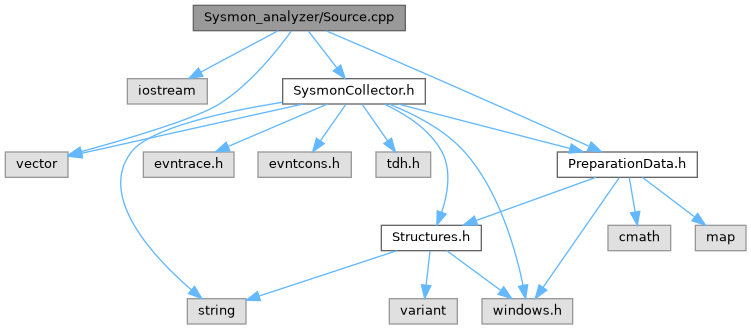
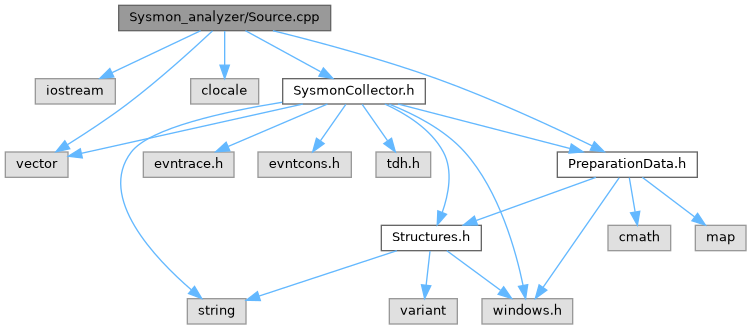
Deploying to gh-pages from @ banp2892/Sysmon_analyzer@a7da2aaada35fd8413b38a43fda87d517f96c042 🚀

diff --git a/SysmonCollector_8h_source.html b/SysmonCollector_8h_source.html
@@ -145,21 +145,21 @@ $(document).ready(function(){initNavTree('SysmonCollector_8h_source.html',''); i
 <div class="ttc" id="aStructures_8h_html"><div class="ttname"><a href="Structures_8h.html">Structures.h</a></div></div>
 <div class="ttc" id="aclassPreparationData_html"><div class="ttname"><a href="classPreparationData.html">PreparationData</a></div><div class="ttdoc">Класс для обработки сырых данных Sysmon и вычисления дополнительных признаков.</div><div class="ttdef"><b>Definition</b> PreparationData.h:14</div></div>
 <div class="ttc" id="aclassSysmonCollector_html"><div class="ttname"><a href="classSysmonCollector.html">SysmonCollector</a></div><div class="ttdoc">Класс для управления сессией трассировки событий Windows (ETW) и сбора данных из Sysmon.</div><div class="ttdef"><b>Definition</b> SysmonCollector.h:17</div></div>
-<div class="ttc" id="aclassSysmonCollector_html_a05258cb410dd1d15eb00927ac206d279"><div class="ttname"><a href="classSysmonCollector.html#a05258cb410dd1d15eb00927ac206d279">SysmonCollector::~SysmonCollector</a></div><div class="ttdeci">~SysmonCollector()</div><div class="ttdoc">Деструктор: останавливает сессию трассировки и освобождает ресурсы.</div><div class="ttdef"><b>Definition</b> SysmonCollector.cpp:15</div></div>
-<div class="ttc" id="aclassSysmonCollector_html_a0bfa96142a08518844ede9037adb5134"><div class="ttname"><a href="classSysmonCollector.html#a0bfa96142a08518844ede9037adb5134">SysmonCollector::GetEventProperty</a></div><div class="ttdeci">static std::wstring GetEventProperty(PEVENT_RECORD pEvent, PTRACE_EVENT_INFO pInfo, const wchar_t *name)</div><div class="ttdoc">Извлекает строковое свойство из данных события.</div><div class="ttdef"><b>Definition</b> SysmonCollector.cpp:116</div></div>
-<div class="ttc" id="aclassSysmonCollector_html_a213457f8ac7e0a0a3691a89386605959"><div class="ttname"><a href="classSysmonCollector.html#a213457f8ac7e0a0a3691a89386605959">SysmonCollector::ParseAndLog</a></div><div class="ttdeci">static void ParseAndLog(PEVENT_RECORD pEvent, PTRACE_EVENT_INFO pInfo)</div><div class="ttdoc">Выполняет высокоуровневую фильтрацию и логирование событий на основе их Event ID.</div><div class="ttdef"><b>Definition</b> SysmonCollector.cpp:68</div></div>
+<div class="ttc" id="aclassSysmonCollector_html_a05258cb410dd1d15eb00927ac206d279"><div class="ttname"><a href="classSysmonCollector.html#a05258cb410dd1d15eb00927ac206d279">SysmonCollector::~SysmonCollector</a></div><div class="ttdeci">~SysmonCollector()</div><div class="ttdoc">Деструктор: останавливает сессию трассировки и освобождает ресурсы.</div><div class="ttdef"><b>Definition</b> SysmonCollector.cpp:26</div></div>
+<div class="ttc" id="aclassSysmonCollector_html_a0bfa96142a08518844ede9037adb5134"><div class="ttname"><a href="classSysmonCollector.html#a0bfa96142a08518844ede9037adb5134">SysmonCollector::GetEventProperty</a></div><div class="ttdeci">static std::wstring GetEventProperty(PEVENT_RECORD pEvent, PTRACE_EVENT_INFO pInfo, const wchar_t *name)</div><div class="ttdoc">Извлекает строковое свойство из данных события.</div><div class="ttdef"><b>Definition</b> SysmonCollector.cpp:128</div></div>
+<div class="ttc" id="aclassSysmonCollector_html_a213457f8ac7e0a0a3691a89386605959"><div class="ttname"><a href="classSysmonCollector.html#a213457f8ac7e0a0a3691a89386605959">SysmonCollector::ParseAndLog</a></div><div class="ttdeci">static void ParseAndLog(PEVENT_RECORD pEvent, PTRACE_EVENT_INFO pInfo)</div><div class="ttdoc">Выполняет высокоуровневую фильтрацию и логирование событий на основе их Event ID.</div><div class="ttdef"><b>Definition</b> SysmonCollector.cpp:90</div></div>
 <div class="ttc" id="aclassSysmonCollector_html_a284d8d8c2324587e48bc1df50a44dd5b"><div class="ttname"><a href="classSysmonCollector.html#a284d8d8c2324587e48bc1df50a44dd5b">SysmonCollector::m_propsBuffer</a></div><div class="ttdeci">std::vector&lt; unsigned char &gt; m_propsBuffer</div><div class="ttdoc">Буфер для свойств сессии</div><div class="ttdef"><b>Definition</b> SysmonCollector.h:22</div></div>
 <div class="ttc" id="aclassSysmonCollector_html_a431405b3f577d87fa1a841593eee8abd"><div class="ttname"><a href="classSysmonCollector.html#a431405b3f577d87fa1a841593eee8abd">SysmonCollector::m_sessionName</a></div><div class="ttdeci">std::wstring m_sessionName</div><div class="ttdoc">Имя сессии трассировки</div><div class="ttdef"><b>Definition</b> SysmonCollector.h:21</div></div>
 <div class="ttc" id="aclassSysmonCollector_html_a4bade727b290c7756f7f5c8ce4c3a7e5"><div class="ttname"><a href="classSysmonCollector.html#a4bade727b290c7756f7f5c8ce4c3a7e5">SysmonCollector::m_preparator</a></div><div class="ttdeci">static PreparationData * m_preparator</div><div class="ttdoc">Указатель на обработчик данных</div><div class="ttdef"><b>Definition</b> SysmonCollector.h:23</div></div>
-<div class="ttc" id="aclassSysmonCollector_html_a52f3277b390c2958fbd2cd11b6da714c"><div class="ttname"><a href="classSysmonCollector.html#a52f3277b390c2958fbd2cd11b6da714c">SysmonCollector::SetupProperties</a></div><div class="ttdeci">void SetupProperties()</div><div class="ttdoc">Инициализирует структуру EVENT_TRACE_PROPERTIES в буфере.</div><div class="ttdef"><b>Definition</b> SysmonCollector.cpp:33</div></div>
-<div class="ttc" id="aclassSysmonCollector_html_a66306c81794e9d28898ac1144591ab19"><div class="ttname"><a href="classSysmonCollector.html#a66306c81794e9d28898ac1144591ab19">SysmonCollector::StartSession</a></div><div class="ttdeci">void StartSession()</div><div class="ttdoc">Регистрирует и запускает новую сессию трассировки в ядре Windows.</div><div class="ttdef"><b>Definition</b> SysmonCollector.cpp:48</div></div>
+<div class="ttc" id="aclassSysmonCollector_html_a52f3277b390c2958fbd2cd11b6da714c"><div class="ttname"><a href="classSysmonCollector.html#a52f3277b390c2958fbd2cd11b6da714c">SysmonCollector::SetupProperties</a></div><div class="ttdeci">void SetupProperties()</div><div class="ttdoc">Инициализирует структуру EVENT_TRACE_PROPERTIES в буфере.</div><div class="ttdef"><b>Definition</b> SysmonCollector.cpp:56</div></div>
+<div class="ttc" id="aclassSysmonCollector_html_a66306c81794e9d28898ac1144591ab19"><div class="ttname"><a href="classSysmonCollector.html#a66306c81794e9d28898ac1144591ab19">SysmonCollector::StartSession</a></div><div class="ttdeci">void StartSession()</div><div class="ttdoc">Регистрирует и запускает новую сессию трассировки в ядре Windows.</div><div class="ttdef"><b>Definition</b> SysmonCollector.cpp:71</div></div>
 <div class="ttc" id="aclassSysmonCollector_html_a667873b5bb03498f0781994d694e9184"><div class="ttname"><a href="classSysmonCollector.html#a667873b5bb03498f0781994d694e9184">SysmonCollector::m_traceHandle</a></div><div class="ttdeci">TRACEHANDLE m_traceHandle</div><div class="ttdoc">Хэндл открытого лога (потребителя)</div><div class="ttdef"><b>Definition</b> SysmonCollector.h:20</div></div>
-<div class="ttc" id="aclassSysmonCollector_html_a701b0f1201c54639c575354b791ce21e"><div class="ttname"><a href="classSysmonCollector.html#a701b0f1201c54639c575354b791ce21e">SysmonCollector::Run</a></div><div class="ttdeci">void Run()</div><div class="ttdoc">Запускает цикл обработки событий в реальном времени.</div><div class="ttdef"><b>Definition</b> SysmonCollector.cpp:21</div></div>
-<div class="ttc" id="aclassSysmonCollector_html_aac014f74b7edad9639b3230901422f29"><div class="ttname"><a href="classSysmonCollector.html#aac014f74b7edad9639b3230901422f29">SysmonCollector::EnableSysmon</a></div><div class="ttdeci">void EnableSysmon()</div><div class="ttdoc">Подключает провайдер Microsoft-Windows-Sysmon к созданной сессии.</div><div class="ttdef"><b>Definition</b> SysmonCollector.cpp:52</div></div>
-<div class="ttc" id="aclassSysmonCollector_html_ab55030edf808a03cc04df83c751ee393"><div class="ttname"><a href="classSysmonCollector.html#ab55030edf808a03cc04df83c751ee393">SysmonCollector::GetEventPropertyInt</a></div><div class="ttdeci">static DWORD GetEventPropertyInt(PEVENT_RECORD pEvent, const wchar_t *name)</div><div class="ttdoc">Извлекает целочисленное (DWORD) свойство из данных события.</div><div class="ttdef"><b>Definition</b> SysmonCollector.cpp:126</div></div>
-<div class="ttc" id="aclassSysmonCollector_html_abd61374a22d672db56e49aa352fab324"><div class="ttname"><a href="classSysmonCollector.html#abd61374a22d672db56e49aa352fab324">SysmonCollector::OnEventRecord</a></div><div class="ttdeci">static void WINAPI OnEventRecord(PEVENT_RECORD pEvent)</div><div class="ttdoc">Статический обратный вызов (Callback), вызываемый Windows при поступлении каждого события.</div><div class="ttdef"><b>Definition</b> SysmonCollector.cpp:57</div></div>
+<div class="ttc" id="aclassSysmonCollector_html_a701b0f1201c54639c575354b791ce21e"><div class="ttname"><a href="classSysmonCollector.html#a701b0f1201c54639c575354b791ce21e">SysmonCollector::Run</a></div><div class="ttdeci">void Run()</div><div class="ttdoc">Запускает цикл обработки событий в реальном времени.</div><div class="ttdef"><b>Definition</b> SysmonCollector.cpp:34</div></div>
+<div class="ttc" id="aclassSysmonCollector_html_aac014f74b7edad9639b3230901422f29"><div class="ttname"><a href="classSysmonCollector.html#aac014f74b7edad9639b3230901422f29">SysmonCollector::EnableSysmon</a></div><div class="ttdeci">void EnableSysmon()</div><div class="ttdoc">Подключает провайдер Microsoft-Windows-Sysmon к созданной сессии.</div><div class="ttdef"><b>Definition</b> SysmonCollector.cpp:80</div></div>
+<div class="ttc" id="aclassSysmonCollector_html_ab55030edf808a03cc04df83c751ee393"><div class="ttname"><a href="classSysmonCollector.html#ab55030edf808a03cc04df83c751ee393">SysmonCollector::GetEventPropertyInt</a></div><div class="ttdeci">static DWORD GetEventPropertyInt(PEVENT_RECORD pEvent, const wchar_t *name)</div><div class="ttdoc">Извлекает целочисленное (DWORD) свойство из данных события.</div><div class="ttdef"><b>Definition</b> SysmonCollector.cpp:138</div></div>
+<div class="ttc" id="aclassSysmonCollector_html_abd61374a22d672db56e49aa352fab324"><div class="ttname"><a href="classSysmonCollector.html#abd61374a22d672db56e49aa352fab324">SysmonCollector::OnEventRecord</a></div><div class="ttdeci">static void WINAPI OnEventRecord(PEVENT_RECORD pEvent)</div><div class="ttdoc">Статический обратный вызов (Callback), вызываемый Windows при поступлении каждого события.</div><div class="ttdef"><b>Definition</b> SysmonCollector.cpp:146</div></div>
 <div class="ttc" id="aclassSysmonCollector_html_ace73b864ebc2d0d6b869d37b825c511c"><div class="ttname"><a href="classSysmonCollector.html#ace73b864ebc2d0d6b869d37b825c511c">SysmonCollector::m_sessionHandle</a></div><div class="ttdeci">TRACEHANDLE m_sessionHandle</div><div class="ttdoc">Хэндл сессии трассировки</div><div class="ttdef"><b>Definition</b> SysmonCollector.h:19</div></div>
-<div class="ttc" id="aclassSysmonCollector_html_ad22b357f31d027e5359ded18e3a4092c"><div class="ttname"><a href="classSysmonCollector.html#ad22b357f31d027e5359ded18e3a4092c">SysmonCollector::StopOldSession</a></div><div class="ttdeci">void StopOldSession()</div><div class="ttdoc">Останавливает существующую сессию с тем же именем, если она зависла в системе.</div><div class="ttdef"><b>Definition</b> SysmonCollector.cpp:44</div></div>
+<div class="ttc" id="aclassSysmonCollector_html_ad22b357f31d027e5359ded18e3a4092c"><div class="ttname"><a href="classSysmonCollector.html#ad22b357f31d027e5359ded18e3a4092c">SysmonCollector::StopOldSession</a></div><div class="ttdeci">void StopOldSession()</div><div class="ttdoc">Останавливает существующую сессию с тем же именем, если она зависла в системе.</div><div class="ttdef"><b>Definition</b> SysmonCollector.cpp:67</div></div>
 </div><!-- fragment --></div><!-- contents -->
 </div><!-- doc-content -->
 <!-- start footer part -->

diff --git a/Source_8cpp.html b/Source_8cpp.html
@@ -96,6 +96,7 @@ $(document).ready(function(){initNavTree('Source_8cpp.html',''); initResizable()
 <div class="contents">
 <div class="textblock"><code>#include &lt;iostream&gt;</code><br />
 <code>#include &lt;vector&gt;</code><br />
+<code>#include &lt;clocale&gt;</code><br />
 <code>#include &quot;<a class="el" href="SysmonCollector_8h_source.html">SysmonCollector.h</a>&quot;</code><br />
 <code>#include &quot;<a class="el" href="PreparationData_8h_source.html">PreparationData.h</a>&quot;</code><br />
 </div><div class="textblock"><div class="dynheader">
@@ -103,15 +104,17 @@ $(document).ready(function(){initNavTree('Source_8cpp.html',''); initResizable()
 <div class="dyncontent">
 <div class="center"><img src="Source_8cpp__incl.png" border="0" usemap="#aSysmon__analyzer_2Source_8cpp" alt=""/></div>
 <map name="aSysmon__analyzer_2Source_8cpp" id="aSysmon__analyzer_2Source_8cpp">
-<area shape="rect" title=" " alt="" coords="193,5,405,31"/>
-<area shape="rect" title=" " alt="" coords="127,79,207,104"/>
-<area shape="poly" title=" " alt="" coords="279,33,202,74,200,70,277,28"/>
+<area shape="rect" title=" " alt="" coords="119,5,331,31"/>
+<area shape="rect" title=" " alt="" coords="35,79,115,104"/>
+<area shape="poly" title=" " alt="" coords="202,33,113,75,111,70,200,28"/>
 <area shape="rect" title=" " alt="" coords="5,152,68,177"/>
-<area shape="poly" title=" " alt="" coords="293,33,264,69,244,89,221,106,160,131,82,154,81,149,158,126,218,102,240,85,260,65,289,29"/>
+<area shape="poly" title=" " alt="" coords="214,33,129,106,69,147,66,142,126,102,211,29"/>
+<area shape="rect" title=" " alt="" coords="191,79,259,104"/>
+<area shape="poly" title=" " alt="" coords="227,31,227,65,222,65,222,31"/>
 <area shape="rect" href="SysmonCollector_8h.html" title=" " alt="" coords="283,79,425,104"/>
-<area shape="poly" title=" " alt="" coords="310,29,339,66,335,69,306,33"/>
+<area shape="poly" title=" " alt="" coords="247,28,322,69,319,74,244,33"/>
 <area shape="rect" href="PreparationData_8h.html" title=" " alt="" coords="557,152,697,177"/>
-<area shape="poly" title=" " alt="" coords="327,28,438,76,590,144,588,149,436,81,325,33"/>
+<area shape="poly" title=" " alt="" coords="274,28,351,49,438,76,522,110,593,143,591,148,520,115,436,81,350,54,272,33"/>
 <area shape="poly" title=" " alt="" coords="303,107,88,155,82,156,81,151,87,149,302,101"/>
 <area shape="rect" title=" " alt="" coords="482,299,573,324"/>
 <area shape="poly" title=" " alt="" coords="390,102,430,121,467,150,490,183,507,220,526,284,520,286,502,222,485,186,463,154,427,125,388,107"/>
@@ -125,7 +128,7 @@ $(document).ready(function(){initNavTree('Source_8cpp.html',''); initResizable()
 <area shape="poly" title=" " alt="" coords="283,105,193,124,156,138,133,154,125,170,124,188,128,206,137,225,164,260,193,288,190,292,160,263,132,228,123,208,118,188,120,169,129,150,153,133,191,119,282,100"/>
 <area shape="poly" title=" " alt="" coords="399,101,571,146,569,151,397,107"/>
 <area shape="rect" href="Structures_8h.html" title=" " alt="" coords="381,225,481,251"/>
-<area shape="poly" title=" " alt="" coords="386,102,418,121,433,134,444,151,450,166,450,183,444,213,439,212,445,182,444,167,440,153,429,138,415,125,383,106"/>
+<area shape="poly" title=" " alt="" coords="386,102,419,121,434,134,446,151,451,166,452,183,445,213,440,212,446,182,446,167,441,153,430,138,416,125,383,106"/>
 <area shape="poly" title=" " alt="" coords="621,179,545,289,541,286,617,176"/>
 <area shape="poly" title=" " alt="" coords="597,180,477,223,475,218,595,175"/>
 <area shape="rect" title=" " alt="" coords="608,225,671,251"/>
